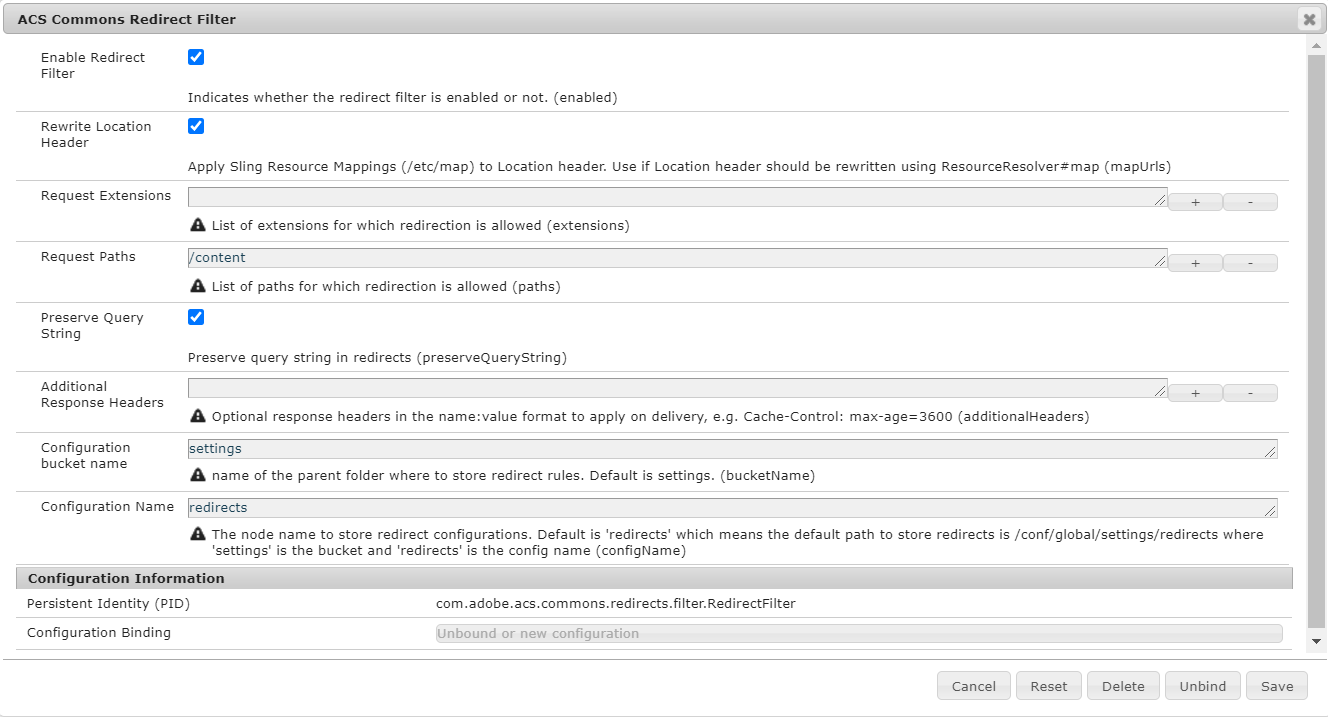
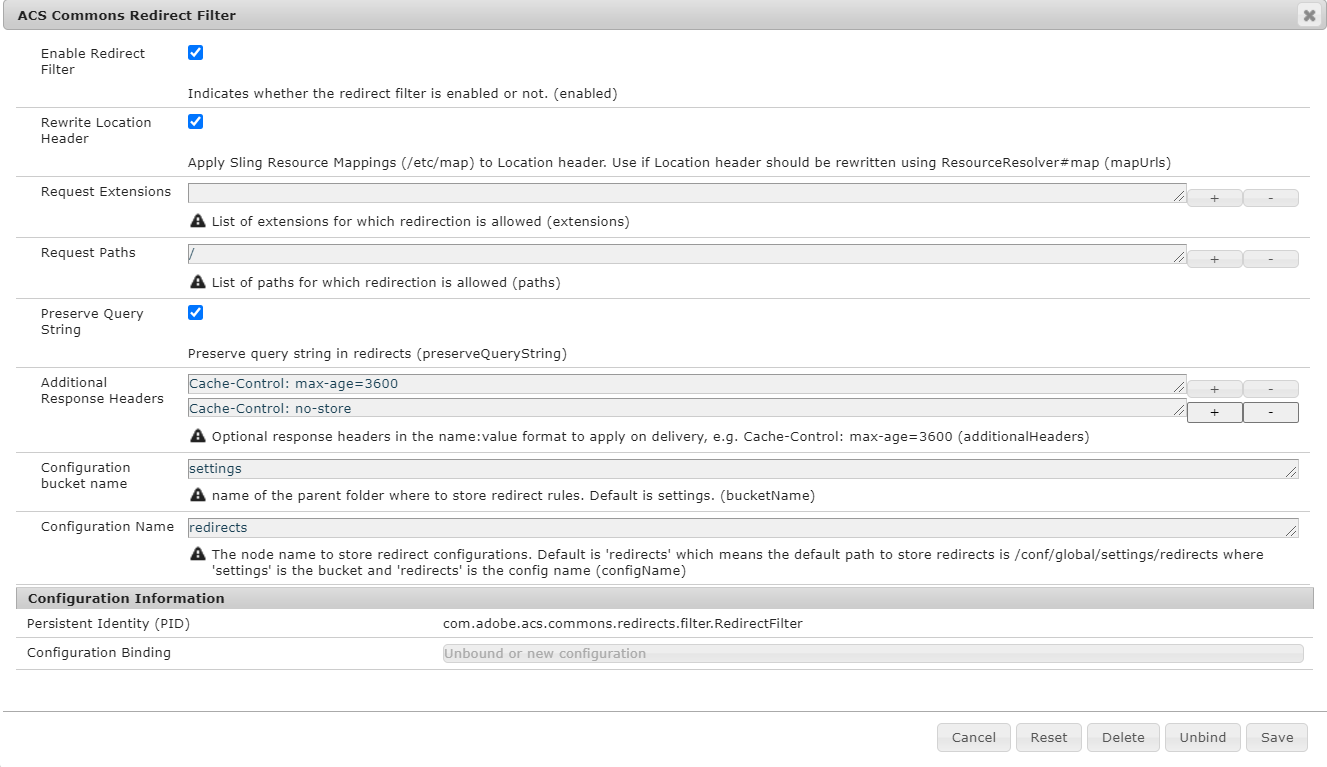
more doc updates

Changed region(s): [[0.0, 0.0, 1.0, 0.9819], [0.0309, 0.0921, 0.4635, 0.2148]]

diff --git a/_acs-aem-commons/features/redirect-manager/advanced.md b/_acs-aem-commons/features/redirect-manager/advanced.md
@@ -3,22 +3,54 @@ layout: acs-aem-commons_subpage
 title: Redirect Manager - Advanced Configuration
 ---
 
-## Advanced Configuration
+### Advanced Configuration
 
-![advanced configuration](images/osgi.png)
+### Additional Response Headers
+The `additionalHeaders` parameter specifies additional response headers to apply on delivery in the name: value format, e.g.
 
-| Source        | Default | Description |
-| ------------- |-------------|-------------|
-| Enable Redirect Filter | false | Whether redirects are enabled |
-| Rewrite Location Header | false | Apply Sling Resource Mappings to Location header. Set ti true if Location header should be rewritten using ResourceResolver#map |
-| Request Extensions |  | List of extensions for which redirection is allowed. Default is empty which means any.  |
-| Request Paths | /content | List of paths for which redirection is allowed. Set to the root (`/`) if you need to redirect vanity urls, e.g. `http://localhost:4502/vanityUrl => http://localhost:4502/en/page`  |
-| Preserve Query String | true | Preserve query string in redirects  |
-| Additional Response Headers|  | Optional response headers in the name:value format to apply on delivery, e.g. Cache-Control: max-age=3600 (additionalHeaders)  |
-| Configuration bucket name | settings | name of the parent folder where to store redirect rules, see [Context Aware Redirect Configurations](./caconfig.md)  |
-| Configuration Name | redirects |The node name to store redirect configurations. Default is 'redirects' which means the default path to store redirects is /conf/global/settings/redirects where 'settings' is the bucket and 'redirects' is the config name, see [Context Aware Redirect Configurations](./caconfig.md)  |
+```xml
+<?xml version="1.0" encoding="UTF-8"?>
+<jcr:root xmlns:sling="http://sling.apache.org/jcr/sling/1.0" xmlns:jcr="http://www.jcp.org/jcr/1.0"
+          jcr:primaryType="sling:OsgiConfig"
+          enabed="{Boolean}true"
+          additionalHeaders="[Cache-Control: max-age=3600,Cache-Control: no-store]"
+/>
+```
 
-## Additional Response Headers
+```shell
+$ curl -I http://localhost:4503/content/we-retail/page1.html
+HTTP/1.1 302 Found
+Location: /content/we-retail/page2.html
+Cache-Control: max-age=3600
+Cache-Control: no-store
+```
 
-## JMX Instrumentation
+
+### Preserving Query String
+
+The `preserveQueryString` parameter controls whether query string will be preserved in redirects, e.g.
+
+```shell
+$ curl -I http://localhost:4503/content/we-retail/page1.html?a=1&b=2
+HTTP/1.1 302 Found
+Location: /content/we-retail/page2.html?a=1&b=2     # query string preserved
+```
+The default value is `true`. Set `preserveQueryString` to false to drop query string parameters in redirects:
+
+```xml
+<?xml version="1.0" encoding="UTF-8"?>
+<jcr:root xmlns:sling="http://sling.apache.org/jcr/sling/1.0" xmlns:jcr="http://www.jcp.org/jcr/1.0"
+          jcr:primaryType="sling:OsgiConfig"
+          enabed="{Boolean}true"
+          preserveQueryString="{Boolean}false"
+/>
+```
+
+```shell
+$ curl -I http://localhost:4503/content/we-retail/page1.html?a=1&b=2
+HTTP/1.1 302 Found
+Location: /content/we-retail/page2.html   # no query string
+```
+
+
 

diff --git a/_acs-aem-commons/features/redirect-manager/manage.md b/_acs-aem-commons/features/redirect-manager/manage.md
@@ -1,25 +1,22 @@
 ---
 layout: acs-aem-commons_subpage
-title: Redirect Manager - UI
+title: Manage Redirects
 ---
 
-##  Redirect Manager UI
+##  Managing Redirects
 
-[Redirect Manager](http://localhost:4502/apps/acs-commons/content/redirect-manager.html/conf/global/settings/redirects) 
-is a dashboard where you can create, update, delete and publish your redirect configurations. 
+Redirects can be created either from the [Manage Redirects](http://localhost:4502/apps/acs-commons/content/redirect-manager.html/conf/global/settings/redirects) console
+or [imported](#export-and-import) from an Excel spreadsheet.
 
-![Manage Redirects](images/manage-redirects.png)
-
-Click the _"+ Add Configuration"_ button to configure one or more Redirect Configurations, e.g.
+### Form Inputs
 
 ![Create Redirect Configurations](images/create-rule.png)
 
-### Form Inputs
 
 | Input        | Required          | Description          |
 | ------------- |-------------|-------------|
 | Source Path | Yes | Where to redirect from. Can be a path in AEM or a regular expression |
-| Target Path | Yes | Where to redirect to. Can be a path in AEM or an external URL |
+| Target Path | Yes | Where to redirect to. Can be a path in AEM or an external URL . Can contain back-references. |
 | Status Code | Yes | 301 or 302 **Warning:** The HTTP 301 status code is cached in browsers with no expiry date and cannot be reverted, i.e. once 301 is applied, it is forever |
 | Redirect Until | No | If the field has a value, the page redirection would work till that date and after that date, the redirection would stop for that entry, If the field has no value, the page redirection would work without any end date (as is)|
 | Notes | No | Optional notes. Roughly equivalent to a comment near a redirect in an Apache HTTPD conf file |
@@ -30,7 +27,7 @@ the regex match.
 
 Redirect target can be a full JCR path ( `/content/we-retail/en/about` ) or a shortened path (`/en/about`) compatible with 
 your Dispatcher mod_rewrite rules or an external url (https://www.we-retail.com/en/about). 
-You can use [Sling Mappings](./mappings.md) or a [custom class](./extend.md) to rewrite Location header.
+You can use [Sling Mappings](./mappings.md) or a [custom class](./mappings.md#custom-location-rewriter) to rewrite Location header.
 
 ### Examples:
 
@@ -72,10 +69,15 @@ You can re-order rules by dragging them in the UI:
 
 ### Export and Import
 
- You can export redirects into a spreadsheet, edit of offline and then import the rules back in AEM. 
- ![Export](images/export.png)
+ You can export redirects into a spreadsheet, edit it offline and then import the rules back in AEM. 
+ 
+To export redirects to a spreadsheet switch to the 'Export' tab and click the 'Export Redirect Map' button:
+
+![Export](images/export.png)
 
 ![Export](images/export-xls.png)
+
+To import redirects switch to the 'Import' tab and click the 'Import Redirect Map' button:
 
 ![Import](images/import.png)
 

diff --git a/_acs-aem-commons/features/redirect-manager/mappings.md b/_acs-aem-commons/features/redirect-manager/mappings.md
@@ -104,3 +104,31 @@ Location: /en/welcome.html  # redirect target as is
 In the second case Redirect Filter will first try to lookup a rule by the JCR Path (_/content/we-retail/en/page_) 
 and then will try to match the mapped path (_/en/page_) . 
 
+## Custom Location Rewriter
+
+There can be cases clients would want to apply custom logic to rewrite the Location header before delivery.
+Redirect Manager provides a hook which allows to register a class to rewrite urls:
+
+```java
+package com.adobe.acs.commons.redirects;
+
+import org.apache.commons.lang3.StringUtils;
+import org.apache.sling.api.SlingHttpServletRequest;
+import org.osgi.service.component.annotations.Component;
+
+@Component
+public class MyLocationAdjuster implements LocationHeaderAdjuster{
+    @Override
+    public String adjust(SlingHttpServletRequest request, String location) {
+
+        if(location.startsWith("/content/we-retail/de/")){
+            String loc = StringUtils.substringAfter(location,"/content/we-retail/de/");
+            return "https://www.we-retail.de/" + loc;
+        }
+        return location;
+    }
+}
+```
+
+You can use it as an alternative to Sling Mappings.
+

diff --git a/_acs-aem-commons/features/redirect-manager/index.md b/_acs-aem-commons/features/redirect-manager/index.md
@@ -19,7 +19,6 @@ respectively in case of a matching incoming request url.
 * Support for context-aware configurations
 * Support for Sling Mappings to rewrite Location header
 * Export redirect rules into a spreadsheet, edit them offline and import back
-* JMX Instrumentation
 
 ## Table of Contents
 
@@ -28,7 +27,6 @@ respectively in case of a matching incoming request url.
 * [Context Aware Configuration](./caconfig.md)
 * [Sling Mappings](./mappings.md): Using Sling Mappings to rewrite Location header
 * [Advanced Configuration](./advanced.md)
-* [Extending Functionality](./extend.md): Extending the basic configuration 
 
 ## Getting Started with Redirect Manager
 
